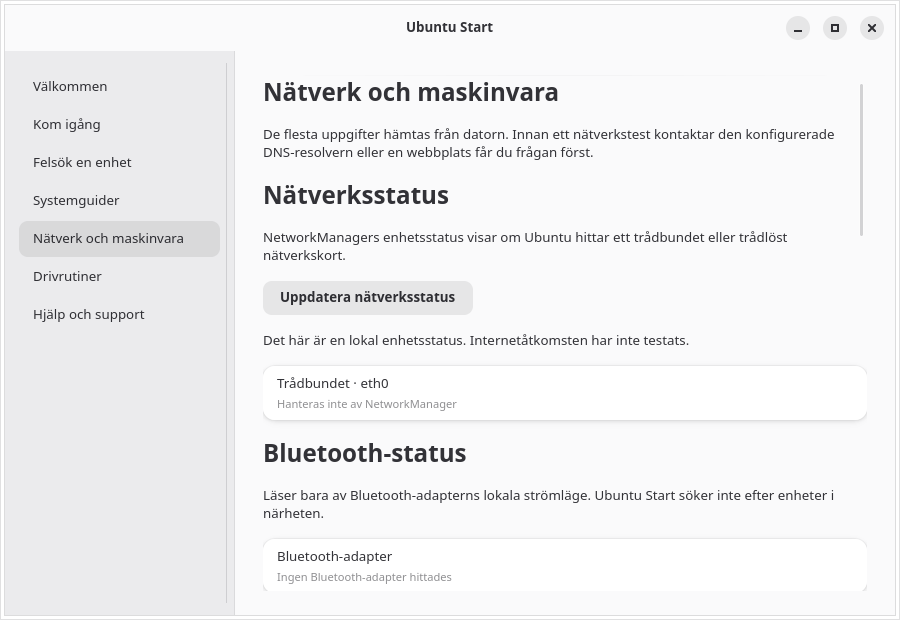
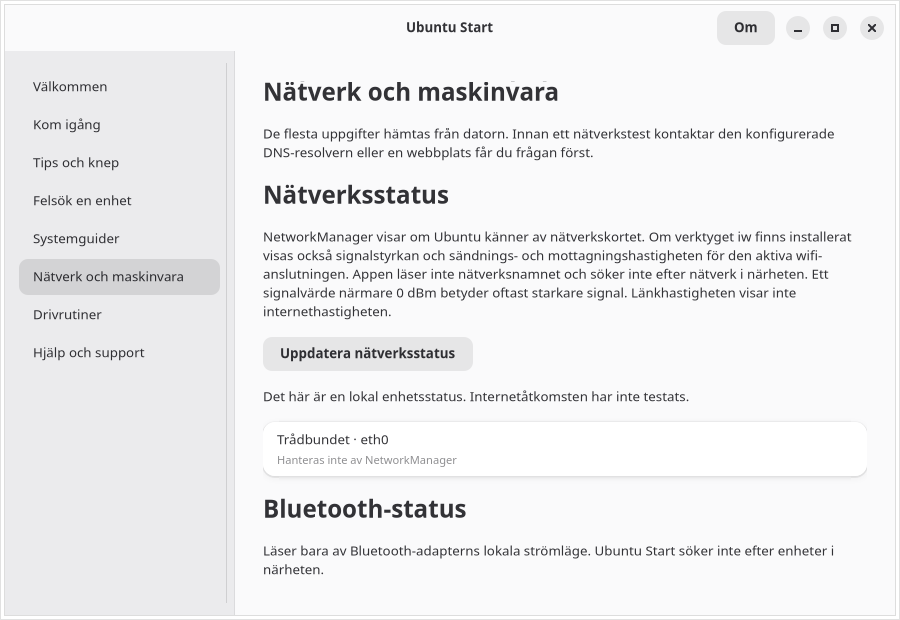
Refresh network and storage screenshots

diff --git a/README.md b/README.md
@@ -16,9 +16,9 @@ An Ubuntu Desktop guide for first-run setup and device troubleshooting.
 
 ![Read-only network and hardware overview](screenshots/network-hardware-en.png)
 
-[More screenshots: network diagnostics (EN)](screenshots/network-diagnostics-en.png) · [audio status (EN)](screenshots/audio-status-en.png) · [Terminal guide (EN)](screenshots/terminal-guide-en.png) · [WiFi Analyzer recommendation (EN)](screenshots/wifi-analyzer-en.png) · [help page (EN)](screenshots/help-en.png) · [hardware summary (EN)](screenshots/help-hardware-en.png)
+[More screenshots: network diagnostics (EN)](screenshots/network-diagnostics-en.png) · [audio status (EN)](screenshots/audio-status-en.png) · [storage and battery (EN)](screenshots/storage-en.png) · [Terminal guide (EN)](screenshots/terminal-guide-en.png) · [WiFi Analyzer recommendation (EN)](screenshots/wifi-analyzer-en.png) · [help page (EN)](screenshots/help-en.png) · [hardware summary (EN)](screenshots/help-hardware-en.png)
 
-[Swedish system guides](screenshots/system-guides-sv.png) · [network and hardware overview](screenshots/network-hardware-sv.png) · [network diagnostics](screenshots/network-diagnostics-sv.png) · [audio status](screenshots/audio-status-sv.png) · [Terminal guide](screenshots/terminal-guide-sv.png) · [WiFi Analyzer recommendation](screenshots/wifi-analyzer-sv.png) · [help page](screenshots/help-sv.png) · [hardware summary](screenshots/help-hardware-sv.png) · [accessibility settings](screenshots/accessibility-panel-en.png)
+[Swedish system guides](screenshots/system-guides-sv.png) · [network and hardware overview](screenshots/network-hardware-sv.png) · [network diagnostics](screenshots/network-diagnostics-sv.png) · [audio status](screenshots/audio-status-sv.png) · [storage and battery](screenshots/storage-sv.png) · [Terminal guide](screenshots/terminal-guide-sv.png) · [WiFi Analyzer recommendation](screenshots/wifi-analyzer-sv.png) · [help page](screenshots/help-sv.png) · [hardware summary](screenshots/help-hardware-sv.png) · [accessibility settings](screenshots/accessibility-panel-en.png)
 
 
 Ubuntu Start combines a first-run guide with practical device troubleshooting for Ubuntu Desktop. It is a GTK 4/libadwaita application intended for Ubuntu GNOME.
@@ -111,7 +111,7 @@ Tagged versions (`v*`) are built by GitHub Actions. Releases include a source ar
 
 ## Screenshots
 
-The screenshots show the welcome page, matching printer troubleshooting steps, a Wi-Fi how-to guide, accessibility instructions and local network and hardware status.
+The screenshots show the welcome page, printer troubleshooting, Wi-Fi setup, accessibility instructions and network status. Additional English and Swedish screenshots include the storage and battery summary.
 
 
 ## License
